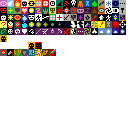
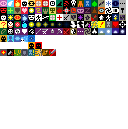
预载全新寒冷BUFF 4 剑客

Changed region(s): [[0.0312, 0.2481, 0.2812, 0.3411]]

diff --git a/core/src/main/java/com/shatteredpixel/shatteredpixeldungeon/ui/BuffIndicator.java b/core/src/main/java/com/shatteredpixel/shatteredpixeldungeon/ui/BuffIndicator.java
@@ -149,6 +149,12 @@ public class BuffIndicator extends Component {
 	public static final int NIGHT_DAY        = 89;
 	public static final int NIGHT_CAT        = 90;
 
+	//ICE BUFF
+	public static final int STORM_SNOW        = 91;
+	public static final int SNOW_SHILED       = 92;
+	public static final int SNOW_RAIN     	  = 93;
+	public static final int SNOW_EYE          = 94;
+
 
 	//ELEMENTS
 	public static final int SCARY        = 112;
